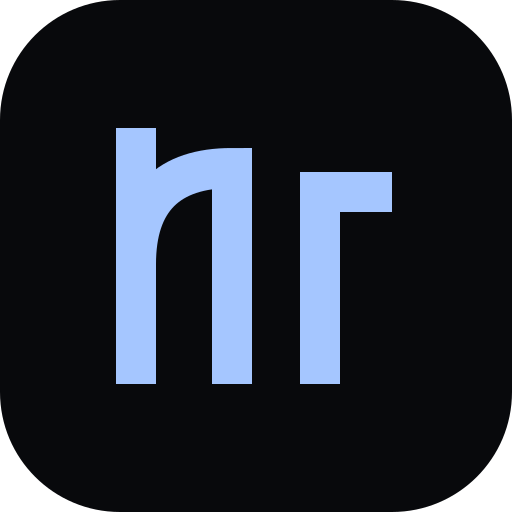
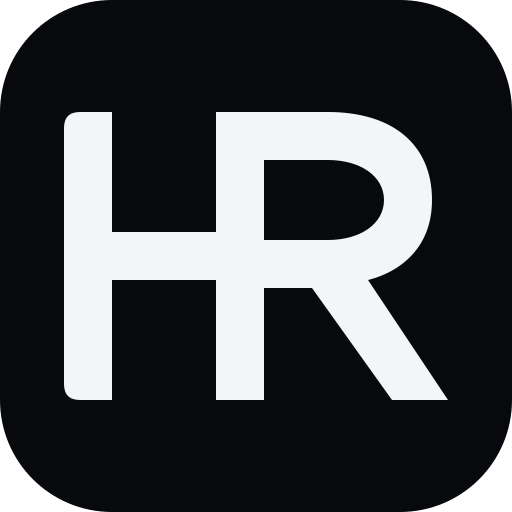
feat: add new branding assets and components for Hamza Rizvi identity
- Introduced a new personal identity documentation file detailing the design rationale and system.
- Created SVG assets for the brand monogram, dark and light variations, and favicon.
- Developed a new BrandLogo component to render the brand mark and wordmark.
- Added a brand data file to hold canonical paths for the SVG paths used in the logo.
- Updated README files to document the branding assets and usage guidelines.

diff --git a/src/app/refinements.css b/src/app/refinements.css
@@ -896,3 +896,116 @@
     opacity: 1;
   }
 }
+
+/* HR identity: a shared stem, a quiet wordmark, and a stable navigation slot. */
+.brand-signature {
+  display: inline-flex;
+  align-items: center;
+  gap: 12px;
+  color: var(--text-primary);
+}
+.hr-monogram {
+  display: block;
+  width: 44px;
+  height: 36px;
+  flex: none;
+  overflow: visible;
+}
+.brand-wordmark {
+  display: grid;
+  grid-template-columns: 1fr;
+  opacity: 1;
+  transition:
+    grid-template-columns 0.45s cubic-bezier(0.16, 1, 0.3, 1),
+    opacity 0.25s;
+}
+.brand-wordmark > span {
+  min-width: 0;
+  overflow: hidden;
+  white-space: nowrap;
+  font-size: 14px;
+  font-weight: 500;
+  letter-spacing: -0.025em;
+}
+.brand-signature[data-compact="true"] .brand-wordmark {
+  grid-template-columns: 0fr;
+  opacity: 0;
+}
+.hr-initial {
+  transform-origin: center;
+  transition: transform 0.45s cubic-bezier(0.16, 1, 0.3, 1);
+}
+.brand:hover .hr-h {
+  transform: translateX(-0.7px);
+}
+.brand:hover .hr-r {
+  transform: translateX(0.7px);
+}
+.brand:focus-visible {
+  outline: 2px solid var(--accent);
+  outline-offset: 6px;
+  border-radius: 6px;
+}
+.nav-inner > .brand {
+  width: 174px;
+  flex: none;
+  min-height: 44px;
+}
+.nav-shell .hr-h {
+  animation: hr-reveal 0.65s cubic-bezier(0.16, 1, 0.3, 1) both;
+}
+.nav-shell .hr-r {
+  animation: hr-reveal 0.65s 0.1s cubic-bezier(0.16, 1, 0.3, 1) both;
+}
+.nav-shell .brand-wordmark > span {
+  animation: hr-wordmark 0.5s 0.2s ease-out both;
+}
+.footer-main .hr-monogram {
+  width: 54px;
+  height: 44px;
+}
+.footer-main .brand-signature {
+  gap: 16px;
+}
+@keyframes hr-reveal {
+  from {
+    clip-path: inset(0 100% 0 0);
+  }
+  to {
+    clip-path: inset(0 0 0 0);
+  }
+}
+@keyframes hr-wordmark {
+  from {
+    opacity: 0;
+    transform: translateY(4px);
+  }
+  to {
+    opacity: 1;
+    transform: none;
+  }
+}
+@media (max-width: 1023px) {
+  .nav-inner > .brand {
+    width: 44px;
+  }
+  .nav-shell .brand-wordmark {
+    display: none;
+  }
+  .nav-shell .brand-signature {
+    gap: 0;
+  }
+}
+@media (prefers-reduced-motion: reduce) {
+  .nav-shell .hr-initial,
+  .nav-shell .brand-wordmark > span {
+    animation: none;
+  }
+  .brand-wordmark,
+  .hr-initial {
+    transition: none;
+  }
+  .brand:hover .hr-initial {
+    transform: none;
+  }
+}

diff --git a/src/components/layout/Navigation.tsx b/src/components/layout/Navigation.tsx
@@ -3,6 +3,7 @@ import { useEffect, useRef, useState } from "react";
 import Link from "next/link";
 import { usePathname } from "next/navigation";
 import { Menu, X, ArrowUpRight } from "lucide-react";
+import { BrandLogo } from "@/components/ui/BrandLogo";
 import { ThemeToggle } from "@/components/ui/ThemeToggle";
 const links = [
   "Projects",
@@ -14,6 +15,7 @@ const links = [
 ];
 export function Navigation() {
   const pathname = usePathname();
+  const [condensed, setCondensed] = useState(false);
   const [active, setActive] = useState("");
   const [open, setOpen] = useState(false);
   const progress = useRef<HTMLDivElement>(null);
@@ -21,6 +23,7 @@ export function Navigation() {
   const menu = useRef<HTMLDivElement>(null);
   useEffect(() => {
     const track = () => {
+      setCondensed(window.scrollY > 96);
       let current = "";
       for (const label of links) {
         const element = document.getElementById(label.toLowerCase());
@@ -83,10 +86,7 @@ export function Navigation() {
       <div className="container">
         <nav className="nav-inner" aria-label="Primary navigation">
           <Link href="/" className="brand" aria-label="Hamza Rizvi home">
-            <span className="brand-mark">
-              hr<span className="brand-dot">.</span>
-            </span>
-            <span className="brand-name">Hamza Rizvi</span>
+            <BrandLogo compact={condensed} />
           </Link>
           <ul className="nav-desktop">
             {links.map((label) => (

diff --git a/src/components/ui/BrandLogo.tsx b/src/components/ui/BrandLogo.tsx
@@ -1,0 +1,27 @@
+import { HR_PATHS } from "@/data/brand";
+
+export function BrandMark({ className = "" }: { className?: string }) {
+  return (
+    <svg
+      className={`hr-monogram ${className}`}
+      viewBox="0 0 60 48"
+      fill="currentColor"
+      aria-hidden="true"
+      focusable="false"
+    >
+      <path className="hr-initial hr-h" d={HR_PATHS.h} />
+      <path className="hr-initial hr-r" d={HR_PATHS.r} fillRule="evenodd" />
+    </svg>
+  );
+}
+
+export function BrandLogo({ compact = false }: { compact?: boolean }) {
+  return (
+    <span className="brand-signature" data-compact={compact}>
+      <BrandMark />
+      <span className="brand-wordmark">
+        <span>Hamza Rizvi</span>
+      </span>
+    </span>
+  );
+}

diff --git a/src/app/opengraph-image.tsx b/src/app/opengraph-image.tsx
@@ -1,3 +1,4 @@
+import { HR_PATHS } from "@/data/brand";
 import { ImageResponse } from "next/og";
 export const alt = "Hamza Rizvi — Built on curiosity.";
 export const size = { width: 1200, height: 630 };
@@ -24,7 +25,13 @@ export default function Image() {
           fontSize: 22,
         }}
       >
-        <span>HAMZA RIZVI</span>
+        <div style={{ display: "flex", alignItems: "center", gap: 16 }}>
+          <svg width="60" height="48" viewBox="0 0 60 48" fill="#f4f5f7">
+            <path d={HR_PATHS.h} />
+            <path d={HR_PATHS.r} fillRule="evenodd" />
+          </svg>
+          <span>Hamza Rizvi</span>
+        </div>
         <span style={{ color: "#a5c6ff" }}>SOFTWARE DEVELOPER</span>
       </div>
       <div

diff --git a/src/components/layout/Footer.tsx b/src/components/layout/Footer.tsx
@@ -1,3 +1,4 @@
+import { BrandLogo } from "@/components/ui/BrandLogo";
 import Link from "next/link";
 import { ArrowUp, ArrowUpRight } from "lucide-react";
 export function Footer() {
@@ -5,9 +6,8 @@ export function Footer() {
     <footer className="border-t border-white/10">
       <div className="container">
         <div className="footer-main">
-          <Link href="/" className="brand">
-            <span className="brand-mark">hr.</span>
-            <span>Hamza Rizvi</span>
+          <Link href="/" className="brand" aria-label="Hamza Rizvi home">
+            <BrandLogo />
           </Link>
           <p>
             Engineering with intention.

diff --git a/src/app/manifest.ts b/src/app/manifest.ts
@@ -11,13 +11,13 @@ export default function manifest(): MetadataRoute.Manifest {
     theme_color: "#08090c",
     icons: [
       {
-        src: "/assets/icon-192.png",
+        src: "/assets/icon-192.png?v=hr1",
         sizes: "192x192",
         type: "image/png",
         purpose: "any",
       },
       {
-        src: "/assets/icon-512.png",
+        src: "/assets/icon-512.png?v=hr1",
         sizes: "512x512",
         type: "image/png",
         purpose: "any",

diff --git a/src/data/brand.ts b/src/data/brand.ts
@@ -1,0 +1,5 @@
+/** Authored HR geometry: the H crossbar meets the R's shared vertical stem. */
+export const HR_PATHS = {
+  h: "M8 6H12V21H25V27H12V42H8Q6 42 6 40V8Q6 6 8 6Z",
+  r: "M25 6H39C47 6 52 10 52 17C52 23 48 26 44 27L54 42H47L37 28H31V42H25Z M31 12V22H39C43 22 46 20 46 17C46 14 43 12 39 12Z",
+};

diff --git a/docs/personal-identity.md b/docs/personal-identity.md
@@ -1,0 +1,25 @@
+# HR personal identity
+
+Reference studied in Chrome: https://celinehermanto.framer.website. Its restrained typography, personal illustration, and spacious composition informed the restraint of this identity; neither its illustration nor its logo was copied.
+
+Three original geometric directions are compared in `brand-review/concepts.svg`: separate initials, a monoline weave, and the selected shared-stem mark. Separate initials are clear but conventional. The thin weave is less robust at browser-tab size. The shared stem connects the initials into one compact signature while retaining recognizable H and R letterforms.
+
+## System
+
+- Primary: custom SVG monogram and Hamza Rizvi wordmark in existing self-hosted Inter.
+- Compact: standalone SVG monogram, used below 1024px and after 96px of scrolling.
+- Favicon: static high-contrast mark on a near-black rounded field, supplied as SVG and 32px ICO; Apple 180px and PWA 192/512px PNGs use the same geometry.
+- Colors: existing text-primary theme token on the website; charcoal in light mode and soft white in dark mode. No gradients.
+- Motion: staggered masked initials at initial load, subtle 0.7px separation on hover, and a 450ms wordmark collapse. The navigation component persists through client-side routing, so the reveal does not replay between pages. Reduced motion removes reveal, hover movement, and transition duration. The fixed branding slot prevents surrounding navigation links from shifting.
+
+## Files
+
+`src/data/brand.ts` holds canonical paths. `src/components/ui/BrandLogo.tsx` renders both website variants. Navigation and Footer use the same component. Icon assets, manifest shortcut versions, and the Open Graph image were updated. Styling is scoped in refinements.css. Original portfolio content and resume files were not changed.
+
+## Review
+
+Chrome/Playwright checks cover desktop and mobile, both themes, scroll collapse/return, hover, reduced motion, icon HTTP responses, Apple icon metadata, overflow, and persistent DOM identity through client navigation. Review captures are stored in `brand-review`. Browser icon files were also inspected at small sizes. Safari and Firefox were not tested.
+
+Final result: both review passes passed at 375px and 1440px in light and dark themes, with no console or runtime errors. The production pass confirmed the exact same navigation SVG DOM node survived client navigation to the resume. All favicon, Apple/PWA icon, and Open Graph routes returned HTTP 200. ESLint, standalone TypeScript, production build (23 routes), diff whitespace checks, and the scoped design detector passed.
+
+Captures: `brand-review/desktop-dark.png`, `desktop-compact.png`, `mobile-light.png`, and `favicon-sizes.png` (16/32/64px icons enlarged to inspect pixels).

diff --git a/public/assets/brand/README.md b/public/assets/brand/README.md
@@ -1,0 +1,14 @@
+# Hamza Rizvi identity
+
+Original geometric artwork authored for this portfolio; no external logo or font outlines were copied.
+
+- `hr-monogram.svg`: scalable currentColor master, 60 × 48 viewBox.
+- `hr-dark.svg`: charcoal ink for light backgrounds.
+- `hr-light.svg`: soft white ink for dark backgrounds.
+- Primary lockup: BrandLogo combines this master geometry with the site's self-hosted Inter wordmark.
+- Compact lockup: same monogram, without the wordmark.
+- Browser icon: `src/app/icon.svg` and `src/app/favicon.ico`.
+- Apple shortcut: `src/app/apple-icon.png`.
+- PWA shortcuts: `public/assets/icon-192.png` and `icon-512.png`.
+
+SVG master uses a 6-unit stem, a 6-unit crossbar, a rounded bowl, a single clear counter, and softly rounded outer left corners. The H and R share the central vertical stem. Keep the mark in one foreground color. Do not stretch, rotate, or apply gradients. Allow at least one stem width of clear space.
